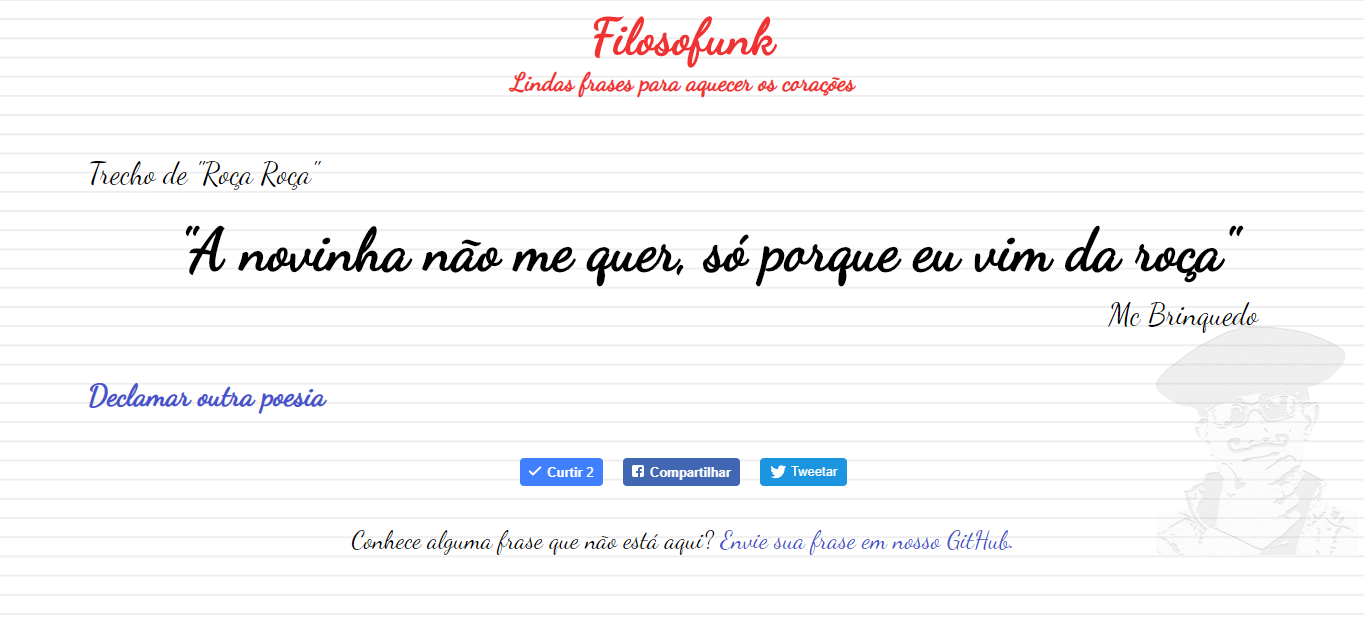
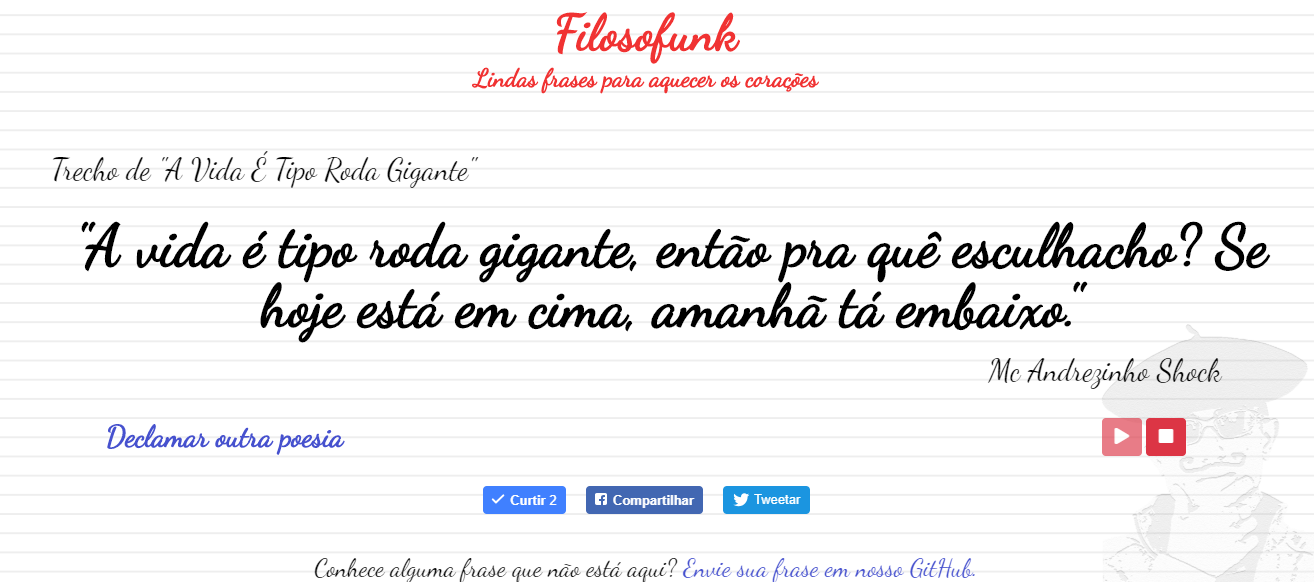
Botoes de áudio (#52)
* issue #40 - opção de silenciar musica (#44)

* Ajustes no botão de play e stop

* Revisão do botão play e pause

* Atualização do screenshot do site

* Botão stop e cdn fontawesome

diff --git a/index.html b/index.html
@@ -1,90 +1,120 @@
 <!DOCTYPE html>
 <html lang="pt-br">
-<head>
-    <title>Filosofunk</title>
 
-    <meta charset="UTF-8">
-    <meta name="viewport" content="width=device-width, initial-scale=1">
-    <meta name="author" content="Igor Rozani">
-    <meta name="description" content="Lindas frases para aquecer os corações">
-    <meta name="keywords" content="funk, poesia, filosofunk, frase">
-    <meta http-equiv="content-language" content="pt-br">
-    <meta name="robots" content="index, nofollow">
-    <meta property="og:locale" content="pt-br">
-    <meta property="og:url" content="http://filosofunk.com.br">
-    <meta property="og:title" content="Filosofunk">
-    <meta property="og:description" content="Lindas frases para aquecer os corações">
-    <meta property="og:type" content="website">
+<head>
+	<title>Filosofunk</title>
+
+	<meta charset="UTF-8">
+	<meta name="viewport" content="width=device-width, initial-scale=1">
+	<meta name="author" content="Igor Rozani">
+	<meta name="description" content="Lindas frases para aquecer os corações">
+	<meta name="keywords" content="funk, poesia, filosofunk, frase">
+	<meta http-equiv="content-language" content="pt-br">
+	<meta name="robots" content="index, nofollow">
+	<meta property="og:locale" content="pt-br">
+	<meta property="og:url" content="http://filosofunk.com.br">
+	<meta property="og:title" content="Filosofunk">
+	<meta property="og:description" content="Lindas frases para aquecer os corações">
+	<meta property="og:type" content="website">
 	<meta property="og:image" content="/img/mascote-og.png">
-    <meta name="twitter:url" content="http://filosofunk.com.br">
-    <meta name="twitter:title" content="Filosofunk">
-    <meta name="twitter:description" content="Lindas frases para aquecer os corações">
-    <meta name="twitter:image" content="/img/mascote-og.png">
-    <meta name="twitter:card" content="summary">
+	<meta name="twitter:url" content="http://filosofunk.com.br">
+	<meta name="twitter:title" content="Filosofunk">
+	<meta name="twitter:description" content="Lindas frases para aquecer os corações">
+	<meta name="twitter:image" content="/img/mascote-og.png">
+	<meta name="twitter:card" content="summary">
 
 	<link rel="shortcut icon" href="/img/favicon.ico" />
+	<link rel="stylesheet" href="https://use.fontawesome.com/releases/v5.3.1/css/all.css">
 	<link rel="manifest" href="/manifest.json">
-    <link href='http://fonts.googleapis.com/css?family=Dancing+Script' rel='stylesheet' type='text/css'>
-    <link href="./css/site.css" rel="stylesheet" type="text/css">
-    <script src="./js/app.js"></script>
+	<link href='http://fonts.googleapis.com/css?family=Dancing+Script' rel='stylesheet' type='text/css'>
+	<link href="./css/site.css" rel="stylesheet" type="text/css">
+	<script src="./js/app.js"></script>
 
-    <script>
-		(function(i,s,o,g,r,a,m){i['GoogleAnalyticsObject']=r;i[r]=i[r]||function(){
-		(i[r].q=i[r].q||[]).push(arguments)},i[r].l=1*new Date();a=s.createElement(o),
-		m=s.getElementsByTagName(o)[0];a.async=1;a.src=g;m.parentNode.insertBefore(a,m)
-		})(window,document,'script','https://www.google-analytics.com/analytics.js','ga');
+	<script>
+		(function (i, s, o, g, r, a, m) {
+			i['GoogleAnalyticsObject'] = r;
+			i[r] = i[r] || function () {
+				(i[r].q = i[r].q || []).push(arguments)
+			}, i[r].l = 1 * new Date();
+			a = s.createElement(o),
+				m = s.getElementsByTagName(o)[0];
+			a.async = 1;
+			a.src = g;
+			m.parentNode.insertBefore(a, m)
+		})(window, document, 'script', 'https://www.google-analytics.com/analytics.js', 'ga');
 
 		ga('create', 'UA-86345160-1', 'auto');
 		ga('send', 'pageview');
-    </script>
+	</script>
 
 </head>
+
 <body>
 	<!-- Facebook buttons -->
 	<div id="fb-root"></div>
-	<script>(function(d, s, id) {
-		var js, fjs = d.getElementsByTagName(s)[0];
-		if (d.getElementById(id)) return;
-		js = d.createElement(s); js.id = id;
-		js.src = 'https://connect.facebook.net/pt_BR/sdk.js#xfbml=1&version=v3.1&appId=367632196919351&autoLogAppEvents=1';
-		fjs.parentNode.insertBefore(js, fjs);
-	}(document, 'script', 'facebook-jssdk'));</script>
+	<script>
+		(function (d, s, id) {
+			var js, fjs = d.getElementsByTagName(s)[0];
+			if (d.getElementById(id)) return;
+			js = d.createElement(s);
+			js.id = id;
+			js.src = 'https://connect.facebook.net/pt_BR/sdk.js#xfbml=1&version=v3.1&appId=367632196919351&autoLogAppEvents=1';
+			fjs.parentNode.insertBefore(js, fjs);
+		}(document, 'script', 'facebook-jssdk'));
+	</script>
 	<!-- End Facebook buttons-->
 
 	<header>
 		<h1>Filosofunk</h1>
 		<h6>Lindas frases para aquecer os corações</h6>
 	</header>
-	
-	<iframe class="audio" width="0" height="0" id="musica" src="" frameborder="0" allow="autoplay; encrypted-media" ></iframe>
-	
+
+	<iframe class="audio" width="0" height="0" id="musica" src="" frameborder="0" allow="autoplay; encrypted-media"></iframe>
+
 	<div class="container">
 		<p class="titulo">Trecho de "<span id="poesia"></span>"</p>
 		<blockquote id="estrofe"></blockquote>
 		<p class="poeta" id="poeta"></p>
 
-		<a href="#" class="declare-button button">Declamar outra poesia</a>
-		
-		<div class="share">
+		<div class="button-group">
+			<a href="#" class="declare-button button">Declamar outra poesia</a>
 
-			<div class="fb-like item" data-href="https://www.facebook.com/filosofunksite/" data-layout="button_count" data-action="like" data-size="large" data-show-faces="true" data-share="false"></div>
+			<div>
+				<button id="btn-play" class="btn btn-danger" disabled>
+					<i class="fa fa-play"></i>
+				</button>
+				<button id="btn-stop" class="btn btn-danger">
+					<i class="fa fa-stop"></i>
+				</button>
 
-			<div class="fb-share-button item" data-href="http://filosofunk.com.br" data-layout="button" data-size="large" data-mobile-iframe="true">
-        <a target="_blank" href="https://www.facebook.com/sharer/sharer.php?u=http%3A%2F%2Ffilosofunk.com.br%2F&amp;src=sdkpreparse" class="fb-xfbml-parse-ignore">
-          Compartilhar
-        </a>
-      </div>
-
-			<div class="item">
-				<a href="https://twitter.com/intent/tweet?text=http://filosofunk.com.br&ref_src=twsrc%5Etfw" class="twitter-hashtag-button" data-size="large">
-          Tweet #Filosofunk
-        </a>
-        <script async src="https://platform.twitter.com/widgets.js" charset="utf-8"></script>
 			</div>
 		</div>
 
-		<p class="help-us">Conhece alguma frase que não está aqui? <a href="https://github.com/IgorRozani/filosofunk" target="_blank">Envie sua frase em nosso GitHub.</a></p>
+		<div class="share">
+			<div class="fb-like item" data-href="https://www.facebook.com/filosofunksite/" data-layout="button_count"
+			 data-action="like" data-size="large" data-show-faces="true" data-share="false"></div>
+
+			<div class="fb-share-button item" data-href="http://filosofunk.com.br" data-layout="button" data-size="large"
+			 data-mobile-iframe="true">
+				<a target="_blank" href="https://www.facebook.com/sharer/sharer.php?u=http%3A%2F%2Ffilosofunk.com.br%2F&amp;src=sdkpreparse"
+				 class="fb-xfbml-parse-ignore">
+					Compartilhar
+				</a>
+			</div>
+
+			<div class="item">
+				<a href="https://twitter.com/intent/tweet?text=http://filosofunk.com.br&ref_src=twsrc%5Etfw" class="twitter-hashtag-button"
+				 data-size="large">
+					Tweet #Filosofunk
+				</a>
+				<script async src="https://platform.twitter.com/widgets.js" charset="utf-8"></script>
+			</div>
+		</div>
+
+		<p class="help-us">Conhece alguma frase que não está aqui? <a href="https://github.com/IgorRozani/filosofunk" target="_blank">Envie
+				sua frase em nosso GitHub.</a></p>
 		<img src="./img/mascote.png" class="mascote">
 	</div>
 </body>
+
 </html>

diff --git a/js/app.js b/js/app.js
@@ -12,15 +12,32 @@ ready(onReady);
 
 function onReady() {
     getPoetry();
-    declarePoetry();
+
+    document.querySelector('.declare-button').addEventListener('click', (evt) => {
+        evt.preventDefault();
+        declarePoetry();
+    });
+
+
+    document.getElementById('btn-stop').addEventListener('click', (evt) => {
+        evt.preventDefault();
+        stopYoutube();
+    });
+
+    document.getElementById('btn-play').addEventListener('click', (evt) => {
+        evt.preventDefault();
+        playYoutube();
+    });
 }
 
 function randomNumber(totalelements) {
     return Math.floor(Math.random() * totalelements);
 }
+
 function setStorage(data) {
     localStorage.setItem('shuffle', JSON.stringify(data));
 }
+
 function getStorage() {
     return JSON.parse(localStorage.getItem('shuffle'));
 }
@@ -29,11 +46,13 @@ function getIndex(storageData) {
     return storageData.shift() || 0;
 }
 
-let poetry; // global para ser usada no button :/
+let poetryCollection, poetry;
+let isPlayEnabled = true;
+
 function setPoetry(data) {
     let storage = getStorage();
 
-    poetry = data;
+    poetryCollection = data;
 
     if (!storage || !storage.length) {
         let total = data.length;
@@ -52,7 +71,8 @@ function setPoetry(data) {
     }
 
     let index = getIndex(storage);
-    exibirPoesia(data[index]);
+    poetry = data[index];
+    exibirPoesia(poetry);
     setStorage(storage);
 }
 
@@ -82,20 +102,40 @@ function exibirPoesia(poesia) {
     document.getElementById("estrofe").innerText = '"' + poesia.estrofe + '"';
     document.getElementById("poeta").innerText = poesia.poeta;
     document.getElementById("poesia").innerText = poesia.poesia;
-    carregarMusica(poesia.id, poesia.start);
+
+    if (isPlayEnabled)
+        carregarMusica(poesia.id, poesia.start);
 }
 
 function declarePoetry() {
-    document.querySelector('.declare-button').addEventListener('click', (evt) => {
-        evt.preventDefault();
-        let storage = getStorage();
+    let storage = getStorage();
 
-        if (!storage || !storage.length) {
-            window.location.reload();
-        };
+    if (!storage || !storage.length) {
+        window.location.reload();
+    };
 
-        let index = getIndex(storage);
-        exibirPoesia(poetry[index]);
-        setStorage(storage);
-    });
+    let index = getIndex(storage);
+    poetry = poetryCollection[index]
+
+    exibirPoesia(poetry);
+    setStorage(storage);
+}
+
+function stopYoutube() {
+    document.getElementById('musica').src = '';
+
+    isPlayEnabled = false;
+    VisibilityAudioButtons();
+}
+
+function playYoutube() {
+    this.carregarMusica(poetry.id, poetry.start);
+
+    isPlayEnabled = true;
+    VisibilityAudioButtons();
+}
+
+function VisibilityAudioButtons() {
+    document.getElementById('btn-stop').disabled = !isPlayEnabled;
+    document.getElementById('btn-play').disabled = isPlayEnabled;
 }

diff --git a/css/site.css b/css/site.css
@@ -37,6 +37,19 @@ a {
     text-decoration: none;
 }
 
+.container .button-group {
+    display: flex;
+    justify-content: center;
+}
+
+.container .button-group div {
+    text-align: right;
+}
+
+.container .button-group div, .container .button-group a {
+    width: 40%;
+}
+
 .audio {
     display: none;
 }
@@ -64,14 +77,13 @@ p.help-us {
 }
 
 .button {
+    
     background-color: transparent;
     border: none;
     font-weight: bold;
-    padding: 15px 32px;
-    text-align: center;
+    text-align: left;
     display: inline-block;
     font-size: 30px;
-    padding-left: 80px;
 }
 
 .share {
@@ -98,4 +110,71 @@ p.help-us {
     max-height: 60%;
     max-width: 60%;
     z-index: -1;
+}
+
+.btn {
+  display: inline-block;
+  font-weight: 400;
+  text-align: center;
+  white-space: nowrap;
+  vertical-align: middle;
+  -webkit-user-select: none;
+  -moz-user-select: none;
+  -ms-user-select: none;
+  user-select: none;
+  border: 1px solid transparent;
+  padding: 0.375rem 0.75rem;
+  font-size: 1rem;
+  line-height: 1.5;
+  border-radius: 0.25rem;
+  transition: color 0.15s ease-in-out, background-color 0.15s ease-in-out, border-color 0.15s ease-in-out, box-shadow 0.15s ease-in-out;
+
+}
+
+.btn-danger {
+  color: #fff;
+  background-color: #dc3545;
+  border-color: #dc3545;
+}
+
+.btn-danger:hover {
+  color: #fff;
+  background-color: #c82333;
+  border-color: #bd2130;
+}
+
+.btn-danger:focus, .btn-danger.focus {
+  box-shadow: 0 0 0 0.2rem rgba(220, 53, 69, 0.5);
+}
+
+.btn-danger.disabled, .btn-danger:disabled {
+  color: #fff;
+  background-color: #dc3545;
+  border-color: #dc3545;
+}
+
+.btn.disabled, .btn:disabled {
+  opacity: 0.65;
+}
+
+.btn:not(:disabled):not(.disabled) {
+  cursor: pointer;
+}
+
+.btn-danger.disabled, .btn-danger:disabled {
+  color: #fff;
+  background-color: #dc3545;
+  border-color: #dc3545;
+}
+
+.btn-danger:not(:disabled):not(.disabled):active, .btn-danger:not(:disabled):not(.disabled).active,
+.show > .btn-danger.dropdown-toggle {
+  color: #fff;
+  background-color: #bd2130;
+  border-color: #b21f2d;
+}
+
+.btn-danger:not(:disabled):not(.disabled):active:focus, .btn-danger:not(:disabled):not(.disabled).active:focus,
+.show > .btn-danger.dropdown-toggle:focus {
+  box-shadow: 0 0 0 0.2rem rgba(220, 53, 69, 0.5);
 }
